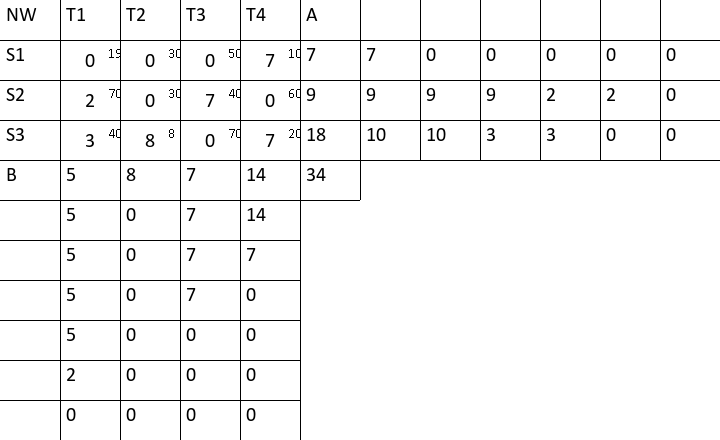
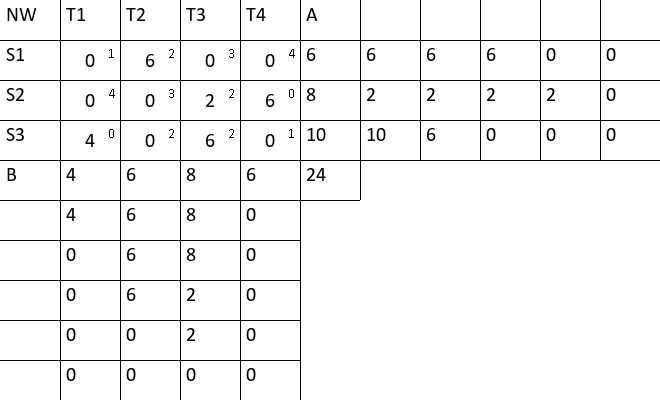
min cost E finished

diff --git a/main.py b/main.py
@@ -88,7 +88,7 @@ def mincost_body(message):
             bot.send_photo(message.from_user.id, photo=pic)
         bot.send_message(message.from_user.id, "План построен")
     except:
-        bot.send_message(message.from_user.id, "Неверный ввод. Чтобы попробовать еще раз, введите /nwcorner")
+        bot.send_message(message.from_user.id, "Неверный ввод. Чтобы попробовать еще раз, введите /minimal_cost")
     else:
         try:
             optimize = True
@@ -102,7 +102,7 @@ def mincost_body(message):
                 bot.send_photo(message.from_user.id, photo=pic)
             bot.send_message(message.from_user.id,
                              "Вырожденный план. Для использования метода потенциалов \
-                             воспользуйтесь построением плана с помощью Е-метода")
+                             воспользуйтесь построением плана с помощью Е-метода (ввод /minimal_costE)")
 
 
 def mincostE_body(message):
@@ -113,7 +113,7 @@ def mincostE_body(message):
             bot.send_photo(message.from_user.id, photo=pic)
         bot.send_message(message.from_user.id, "План построен")
     except:
-        bot.send_message(message.from_user.id, "Неверный ввод. Чтобы попробовать еще раз, введите /nwcornerE")
+        bot.send_message(message.from_user.id, "Неверный ввод. Чтобы попробовать еще раз, введите /minimal_costE")
     else:
         try:
             optimize = True
@@ -157,7 +157,7 @@ def nwcorner_body(message):
                 bot.send_photo(message.from_user.id, photo=pic)
             bot.send_message(message.from_user.id,
                              "Вырожденный план. Для использования метода потенциалов \
-                             воспользуйтесь построением плана с помощью Е-метода")
+                             воспользуйтесь построением плана с помощью Е-метода (ввод /nwcornerE)")
 
 
 def nwcornerE_body(message):
@@ -179,6 +179,7 @@ def nwcornerE_body(message):
                     bot.send_photo(message.from_user.id, photo=pic)
         finally:
             bot.send_message(message.from_user.id, "План оптимизирован")
+
 
 @bot.message_handler(commands=['grant'])
 @privilege_check(bot)

diff --git a/building_plan_methods_E/min_costE.py b/building_plan_methods_E/min_costE.py
@@ -48,17 +48,19 @@ class Min_cost_methodE(MethodE):
             if min_price != 200_000:
                 self.matrix[min_i][min_j].capacity = max_val[0]
                 self.matrix[min_i][min_j].E = max_val[1]
-                if max_val != [0, 0]:
-                    self.a_matrix[k][i][0] -= max_val[0]
-                    self.a_matrix[k][i][1] -= max_val[1]
 
-                    self.b_matrix[k][j][0] -= max_val[0]
-                    self.b_matrix[k][j][1] -= max_val[1]
+                if max_val != [0, 0]:
+                    self.a_matrix[k][min_i][0] -= max_val[0]
+                    self.a_matrix[k][min_i][1] -= max_val[1]
+
+                    self.b_matrix[k][min_j][0] -= max_val[0]
+                    self.b_matrix[k][min_j][1] -= max_val[1]
 
                     self.a_matrix.append(copy.deepcopy(self.a_matrix[k]))
                     self.b_matrix.append(copy.deepcopy(self.b_matrix[k]))
 
                     k += 1
+
 
 
     def build_matrix(self):
